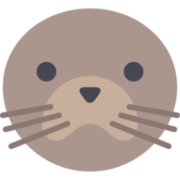
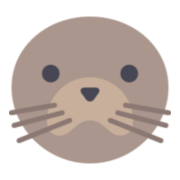
add Progressive Web App

diff --git a/public/service-worker.js b/public/service-worker.js
@@ -1,0 +1,11 @@
+self.addEventListener('install', () => {
+  console.log('DocuSeal App installed')
+})
+
+self.addEventListener('activate', () => {
+  console.log('DocuSeal App activated')
+})
+
+self.addEventListener('fetch', (event) => {
+  event.respondWith(fetch(event.request))
+})

diff --git a/app/controllers/pwa_controller.rb b/app/controllers/pwa_controller.rb
@@ -1,0 +1,4 @@
+# frozen_string_literal: true
+
+class PwaController < ActionController::Base
+end

diff --git a/lib/docuseal.rb b/lib/docuseal.rb
@@ -69,6 +69,10 @@ module Docuseal
     @default_pkcs ||= GenerateCertificate.load_pkcs(Docuseal::CERTS)
   end
 
+  def enable_pwa?
+    true
+  end
+
   def trusted_certs
     @trusted_certs ||=
       ENV['TRUSTED_CERTS'].to_s.gsub('\\n', "\n").split("\n\n").map do |base64|

diff --git a/config/routes.rb b/config/routes.rb
@@ -12,6 +12,7 @@ Rails.application.routes.draw do
   root 'dashboard#index'
 
   get 'up' => 'rails/health#show'
+  get 'manifest' => 'pwa#manifest'
 
   devise_for :users,
              path: '/', only: %i[sessions passwords omniauth_callbacks],